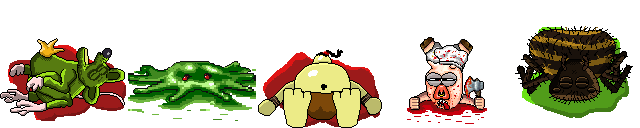
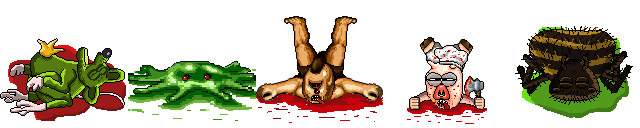
ADD New art for Cyclops

Changed region(s): [[0.375, 0.125, 0.625, 1.0]]

diff --git a/src/CyclopsEntity.cpp b/src/CyclopsEntity.cpp
@@ -17,7 +17,7 @@ CyclopsEntity::CyclopsEntity(float x, float y)
 {
   width = 128;
   height = 192;
-  creatureSpeed = CYCLOP_SPEED[0];
+  creatureSpeed = CYCLOP_SPEED[0] * 0.6f;
   velocity = Vector2D(creatureSpeed);
   hp = CYCLOP_HP;
   hpDisplay = CYCLOP_HP;
@@ -27,13 +27,12 @@ CyclopsEntity::CyclopsEntity(float x, float y)
 
   type = ENTITY_ENEMY_BOSS;
   bloodColor = BloodRed;
-  shadowFrame = 8;
   dyingFrame = 5;
   deathFrame = FRAME_CORPSE_CYCLOP;
-  dyingSound = SOUND_CYCLOP_DIE;
+  agonizingSound = SOUND_CYCLOP_DIE;
   frame = 0;
   if (game().getPlayerPosition().x > x) isMirroring = true;
-  sprite.setOrigin(64.0f, 128.0f);
+  sprite.setOrigin(64.0f, 143.0f);
 
   nextRockMissile = 0;
   destroyLevel = 0;
@@ -59,7 +58,7 @@ int CyclopsEntity::getHealthLevel()
 
 void CyclopsEntity::fire()
 {
-  new RockMissileEntity(x, y - 62, nextRockMissile);
+  new RockMissileEntity(x, y - 27, nextRockMissile);
   SoundManager::getInstance().playSound(SOUND_THROW);
 }
 
@@ -112,7 +111,7 @@ void CyclopsEntity::computeStates(float delay)
       {
         counter--;
         timer = 0.5f;
-        creatureSpeed = CYCLOP_SPEED[getHealthLevel()];
+        creatureSpeed = CYCLOP_SPEED[getHealthLevel()] * 0.6f;
         setVelocity(Vector2D(x, y).vectorTo(game().getPlayerPosition(), creatureSpeed ));
       }
       else
@@ -228,13 +227,19 @@ void CyclopsEntity::animate(float delay)
   if (canCollide()) testSpriteCollisions();
   BaseCreatureEntity::animate(delay);
 
+  // old frame (for sound)
+  int oldFrame = frame;
+
   // current frame
   if (state == 0)
   {
-    int r = ((int)(age * 5.0f)) % 4;
+    int r = ((int)(age * 2.0f)) % 4;
     if (r == 2) frame = 0;
     else if (r == 3) frame = 2;
     else frame = r;
+
+    if (oldFrame == 1 && frame == 0) SoundManager::getInstance().playSound(SOUND_HEAVY_STEP_00);
+    else if (oldFrame == 2 && frame == 0) SoundManager::getInstance().playSound(SOUND_HEAVY_STEP_01);
   }
   else if (state == 1)
   {
@@ -260,7 +265,7 @@ void CyclopsEntity::animate(float delay)
   else if (velocity.x < -1.0f)
     isMirroring = false;
 
-  z = OFFSET_Y + y + 46;
+  z = OFFSET_Y + y + 36;
 }
 
 int CyclopsEntity::hurt(int damages, enumShotType hurtingType, int level, bool critical, sourceTypeEnum sourceType, enemyTypeEnum enemyType)
@@ -273,7 +278,7 @@ void CyclopsEntity::calculateBB()
 {
   boundingBox.left = OFFSET_X + (int)x - 32;
   boundingBox.width = 58;
-  boundingBox.top = OFFSET_Y + (int)y - 42;
+  boundingBox.top = OFFSET_Y + (int)y - 52;
   boundingBox.height =  90;
 }
 
@@ -317,6 +322,15 @@ void CyclopsEntity::drop()
 
 void CyclopsEntity::render(sf::RenderTarget* app)
 {
+  // shadow
+  if (frame == 3 || frame == 4 || frame == 6)
+    sprite.setPosition(isMirroring ? x - 20 : x + 20, y);
+  else
+    sprite.setPosition(x, y);
+  sprite.setTextureRect(sf::IntRect(8 * width, 0, width, height));
+  app->draw(sprite);
+  sprite.setPosition(x, y);
+
   EnemyEntity::render(app);
 
   // stones
@@ -326,17 +340,17 @@ void CyclopsEntity::render(sf::RenderTarget* app)
     {
       sprite.setTextureRect(sf::IntRect(1152, 0,  64,  64));
       if (isMirroring)
-        sprite.setPosition(x + 60, y);
+        sprite.setPosition(x + 60, y + 45);
       else
-        sprite.setPosition(x + 4, y);
+        sprite.setPosition(x + 4, y + 45);
     }
     else // medium rock
     {
       sprite.setTextureRect(sf::IntRect(1152, 64,  64,  64));
       if (isMirroring)
-        sprite.setPosition(x + 60, y - 12);
+        sprite.setPosition(x + 60, y + 33);
       else
-        sprite.setPosition(x + 4, y - 12);
+        sprite.setPosition(x + 4, y + 33);
     }
 
     app->draw(sprite);

diff --git a/src/Constants.h b/src/Constants.h
@@ -190,7 +190,9 @@ enum sound_resources {
   SOUND_MESSAGE,
   SOUND_EARTHQUAKE,
   SOUND_SPELL_FREEZE,
-  SOUND_SPELL_SHIELD
+  SOUND_SPELL_SHIELD,
+  SOUND_HEAVY_STEP_00,
+  SOUND_HEAVY_STEP_01,
 };
 
 enum corpses_ressources{
@@ -216,6 +218,7 @@ enum corpses_ressources{
   FRAME_CORPSE_SNAKE,
   FRAME_CORPSE_SNAKE_BLOOD,
   FRAME_CORPSE_PUMPKIN,
+  FRAME_CORPSE_FLOWER_ICE,
 
   FRAME_CORPSE_KING_RAT,
   FRAME_CORPSE_GIANT_SLIME,
